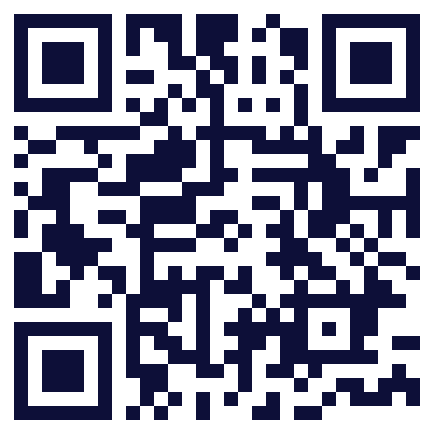
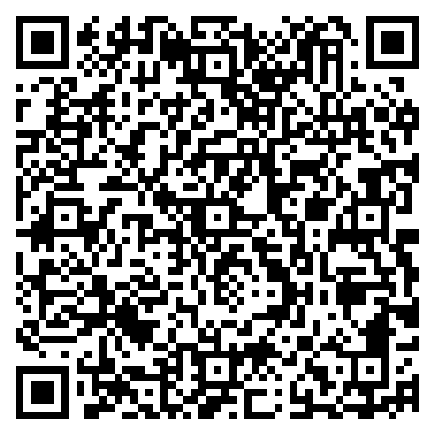
Update download page for App Store release

diff --git a/app/page.tsx b/app/page.tsx
@@ -3,7 +3,7 @@ import Image from "next/image";
 import { Footer, Header } from "./site-components";
 
 const basePath = process.env.PAGES_BASE_PATH ?? process.env.NEXT_PUBLIC_BASE_PATH ?? "";
-const downloadUrl = "https://lockyapp.cn/#download";
+const downloadUrl = "https://apps.apple.com/cn/app/locky-%E4%BF%9D%E6%8A%A4%E5%BA%94%E7%94%A8%E4%B8%8E%E5%BA%94%E7%94%A8%E9%94%81/id6792667900";
 
 const productLinks = [
   "限制打开",
@@ -182,12 +182,12 @@ export default function Home() {
             <p className="kicker">DOWNLOAD</p>
             <h2 id="download-title">扫码打开 Locky 下载页</h2>
             <p>
-              App Store 正式链接生成后，二维码会切换为直接下载地址。现在可先收藏官网，查看隐私、条款与支持信息。
+              Locky 已上架 App Store。扫码或点击下载按钮，即可前往 App Store 安装。
             </p>
             <div className="download-actions">
               <a className="app-store-button" href={downloadUrl}>
                 <span>App Store</span>
-                <strong>上线后可下载</strong>
+                <strong>立即下载</strong>
               </a>
               <Link className="secondary-action light" href="/support/">需要帮助</Link>
             </div>
@@ -203,7 +203,7 @@ export default function Home() {
               />
             </div>
             <span>扫描二维码</span>
-            <strong>lockyapp.cn</strong>
+            <strong>App Store 下载</strong>
           </div>
         </section>
 
